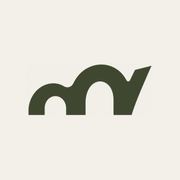
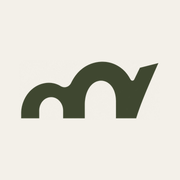
Ikon iPhone 1024px supaya tidak pecah di layar 3x
apple-touch-icon kini /pwa-icon/1024 (iOS memperkecil, tidak memperbesar). Ikon SLM dibuat
ulang langsung dari logo 5000px, tanda 78% lebar ikon; SLMJ ikut punya 1024. Instance
tanpa file 1024 memakai logo 512. ICON_VERSION 2026-11-13c.

Claude-Session: https://claude.ai/code/session_01UTm6Mb2MMJYsMiGSfb55o9

Changed region(s): [[0.1111, 0.3333, 0.8889, 0.6667]]

diff --git a/app/pwa-icon/[size]/route.tsx b/app/pwa-icon/[size]/route.tsx
@@ -5,7 +5,7 @@ import { brandHex, getAppBrand } from "@/lib/appBrand";
 
 export const dynamic = "force-dynamic";
 
-const SIZES = new Set([180, 192, 512]);
+const SIZES = new Set([180, 192, 512, 1024]);
 
 /** Logo khusus layar utama per instance: public/pwa/<nama-brand>-<ukuran>.png (mis. slm-180.png). */
 async function customIcon(brandName: string, size: number) {
@@ -19,7 +19,9 @@ export async function GET(_request: Request, { params }: { params: Promise<{ siz
   const size = Number((await params).size);
   if (!SIZES.has(size)) return new Response("Not found", { status: 404 });
   const brand = getAppBrand();
-  const custom = await customIcon(brand.iconSlug || brand.name, size);
+  const slug = brand.iconSlug || brand.name;
+  // 1024 dipakai iPhone (ikon tajam di layar 3x); instance tanpa file 1024 memakai logo 512.
+  const custom = (await customIcon(slug, size)) ?? (size === 1024 ? await customIcon(slug, 512) : null);
   if (custom) {
     return new Response(new Uint8Array(custom), { headers: { "content-type": "image/png", "cache-control": "public, max-age=3600" } });
   }

diff --git a/app/layout.tsx b/app/layout.tsx
@@ -16,7 +16,7 @@ export function generateMetadata(): Metadata {
     title: brand.title,
     description: `Aplikasi operasional internal ${brand.companyName}`,
     // Alamat berversi supaya Cloudflare/browser tidak menahan ikon lama setelah logo diganti.
-    icons: { icon: iconUrl("/brand-icon.svg", brand), shortcut: iconUrl("/brand-icon.svg", brand), apple: iconUrl("/pwa-icon/180", brand) },
+    icons: { icon: iconUrl("/brand-icon.svg", brand), shortcut: iconUrl("/brand-icon.svg", brand), apple: [{ url: iconUrl("/pwa-icon/1024", brand), sizes: "1024x1024" }] },
     // Dipasang di iPhone lewat Safari > Bagikan > Tambah ke Layar Utama: terbuka layar penuh tanpa App Store.
     manifest: "/manifest.webmanifest",
     appleWebApp: { capable: true, title: brand.name, statusBarStyle: "default", startupImage: iphoneStartupImages() }

diff --git a/lib/appBrand.ts b/lib/appBrand.ts
@@ -71,7 +71,7 @@ export function getAppBrand(): AppBrand {
  * Versi ikon (favicon, ikon layar utama, splash). Naikkan setiap logo/ikon berubah: alamat ikon ikut berubah
  * sehingga cache Cloudflare dan browser langsung memakai ikon baru.
  */
-export const ICON_VERSION = "2026-11-13b";
+export const ICON_VERSION = "2026-11-13c";
 
 /** Alamat ikon dengan versi + instance, mis. /pwa-icon/180?v=2026-11-13-slm. */
 export function iconUrl(path: string, brand: Pick<AppBrand, "iconSlug"> = getAppBrand()) {
